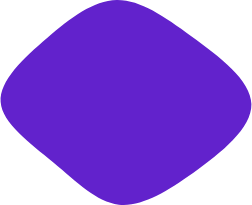
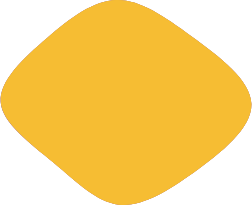
Home page
color changed, correction for styles and animation, image edited/added.

diff --git a/Enactus Modern/index.html b/Enactus Modern/index.html
@@ -47,8 +47,8 @@
         <div class="container-xxl position-relative p-0">
             <nav class="navbar navbar-expand-lg navbar-light px-4 px-lg-5 py-3 py-lg-0">
                 <a href="" class="navbar-brand p-0">
-                    <h1 class="m-0">DGital</h1>
-                    <!-- <img src="img/logo.png" alt="Logo"> -->
+                    <!-- <h1 class="m-0">DGital</h1> -->
+                    <img src="img/Enactus Modern.png" alt="Logo">
                 </a>
                 <button class="navbar-toggler" type="button" data-bs-toggle="collapse" data-bs-target="#navbarCollapse">
                     <span class="fa fa-bars"></span>
@@ -203,7 +203,7 @@
         <div class="container-xxl py-5">
             <div class="container py-5 px-lg-5">
                 <div class="wow fadeInUp" data-wow-delay="0.1s">
-                    <p class="section-title text-secondary justify-content-center"><span></span>Our Services<span></span></p>
+                    <p class="section-title text-secondary justify-content-center black-color"><span></span>Our Services<span></span></p>
                     <h1 class="text-center mb-5">What Solutions We Provide</h1>
                 </div>
                 <div class="row g-4">
@@ -296,7 +296,7 @@
         <div class="container-xxl py-5">
             <div class="container py-5 px-lg-5">
                 <div class="wow fadeInUp" data-wow-delay="0.1s">
-                    <p class="section-title text-secondary justify-content-center"><span></span>Our Projects<span></span></p>
+                    <p class="section-title text-secondary justify-content-center black-color"><span></span>Our Projects<span></span></p>
                     <h1 class="text-center mb-5">Recently Completed Projects</h1>
                 </div>
                 <div class="row mt-n2 wow fadeInUp" data-wow-delay="0.3s">
@@ -408,7 +408,7 @@
         <!-- Testimonial Start -->
         <div class="container-xxl py-5 wow fadeInUp" data-wow-delay="0.1s">
             <div class="container py-5 px-lg-5">
-                <p class="section-title text-secondary justify-content-center"><span></span>Testimonial<span></span></p>
+                <p class="section-title text-secondary justify-content-center black-color"><span></span>Testimonial<span></span></p>
                 <h1 class="text-center mb-5">What Say Our Clients!</h1>
                 <div class="owl-carousel testimonial-carousel">
                     <div class="testimonial-item bg-light rounded my-4">
@@ -451,7 +451,7 @@
         <div class="container-xxl py-5">
             <div class="container py-5 px-lg-5">
                 <div class="wow fadeInUp" data-wow-delay="0.1s">
-                    <p class="section-title text-secondary justify-content-center"><span></span>Our Team<span></span></p>
+                    <p class="section-title text-secondary justify-content-center black-color"><span></span>Our Team<span></span></p>
                     <h1 class="text-center mb-5">Our Team Members</h1>
                 </div>
                 <div class="row g-4">

diff --git a/Enactus Modern/css/style.css b/Enactus Modern/css/style.css
@@ -37,6 +37,10 @@
     color: #F6F4F9 !important;
 }
 
+.black-color{
+    color: #04000B !important;
+}
+
 .btn-primary {
     color: #fff;
     background-color: #f6bd33;
@@ -383,7 +387,7 @@ h6,
 .service-item:hover {
     margin-top: -15px;
     padding-bottom: 60px;
-    background: var(--primary);
+    background: #f6bd33;
 }
 
 .service-item .service-icon {
@@ -401,7 +405,7 @@ h6,
 
 .service-item:hover .service-icon {
     color: var(--dark);
-    background: url(../img/blob-secondary.png) center center no-repeat;
+    background: url(../img/blob-secondary-white.png) center center no-repeat;
     background-size: contain;
 }
 
@@ -428,7 +432,7 @@ h6,
 }
 
 .service-item a.btn:hover {
-    color: var(--dark);
+    color: #EAE9EC;
     background: var(--secondary);
 }
 
@@ -470,7 +474,7 @@ h6,
     height: 100%;
     top: 0;
     left: 0;
-    background: rgba(98, 34, 204, .9);
+    background: rgba(246, 189, 51, 0.25);
     transition: .5s;
     opacity: 0;
 }
